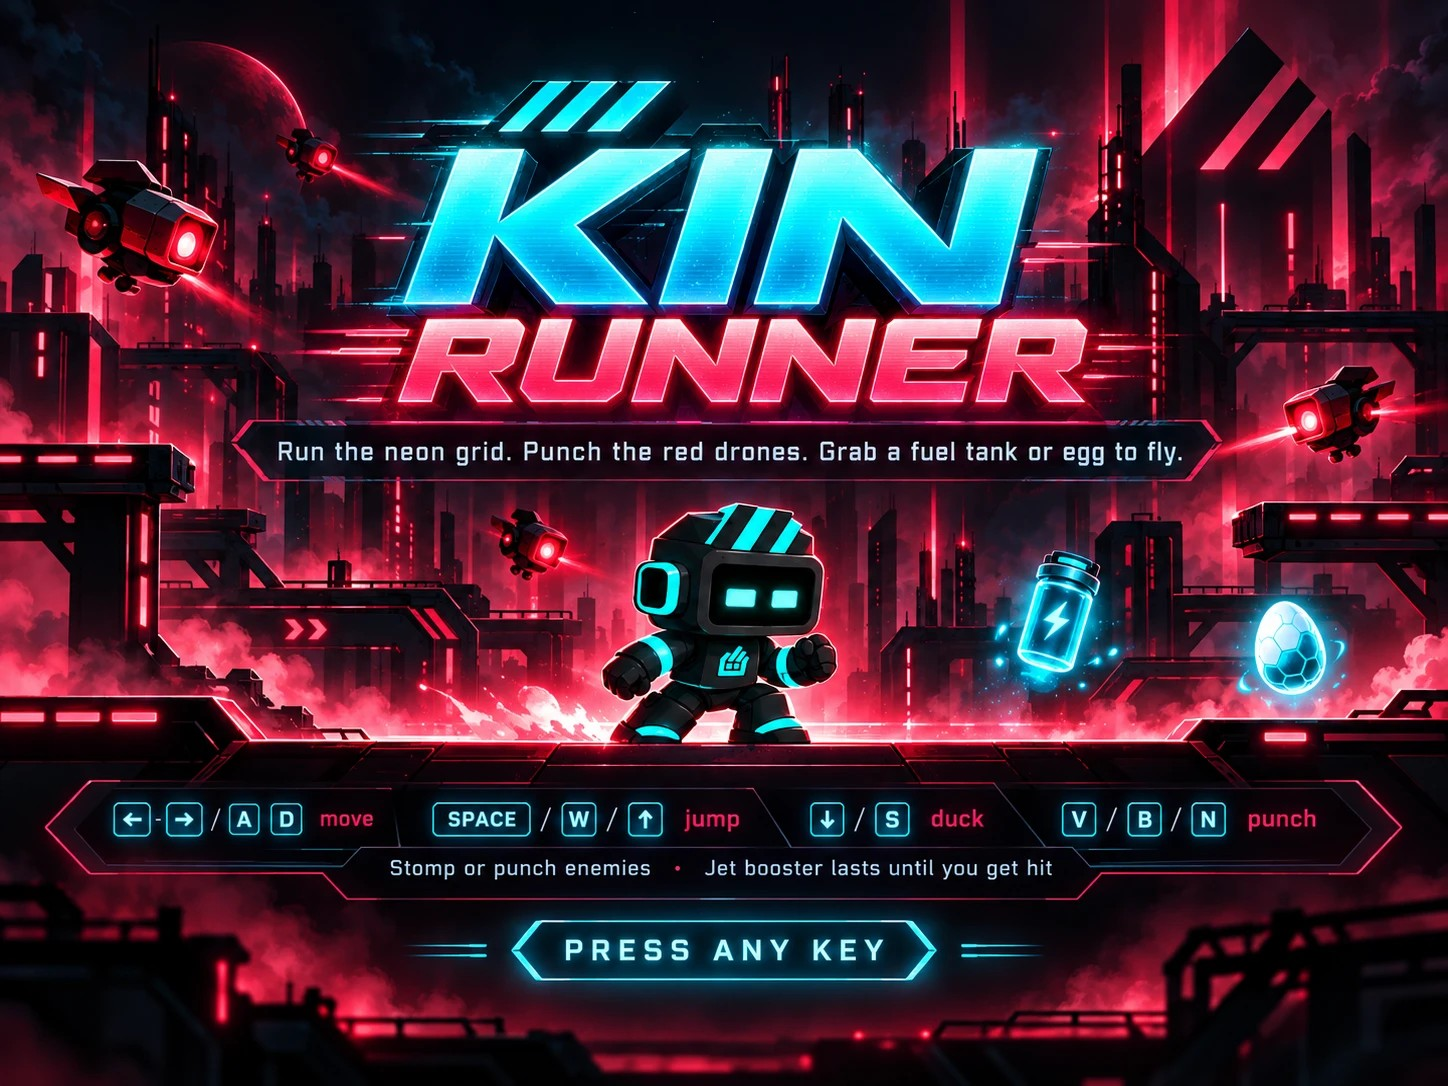
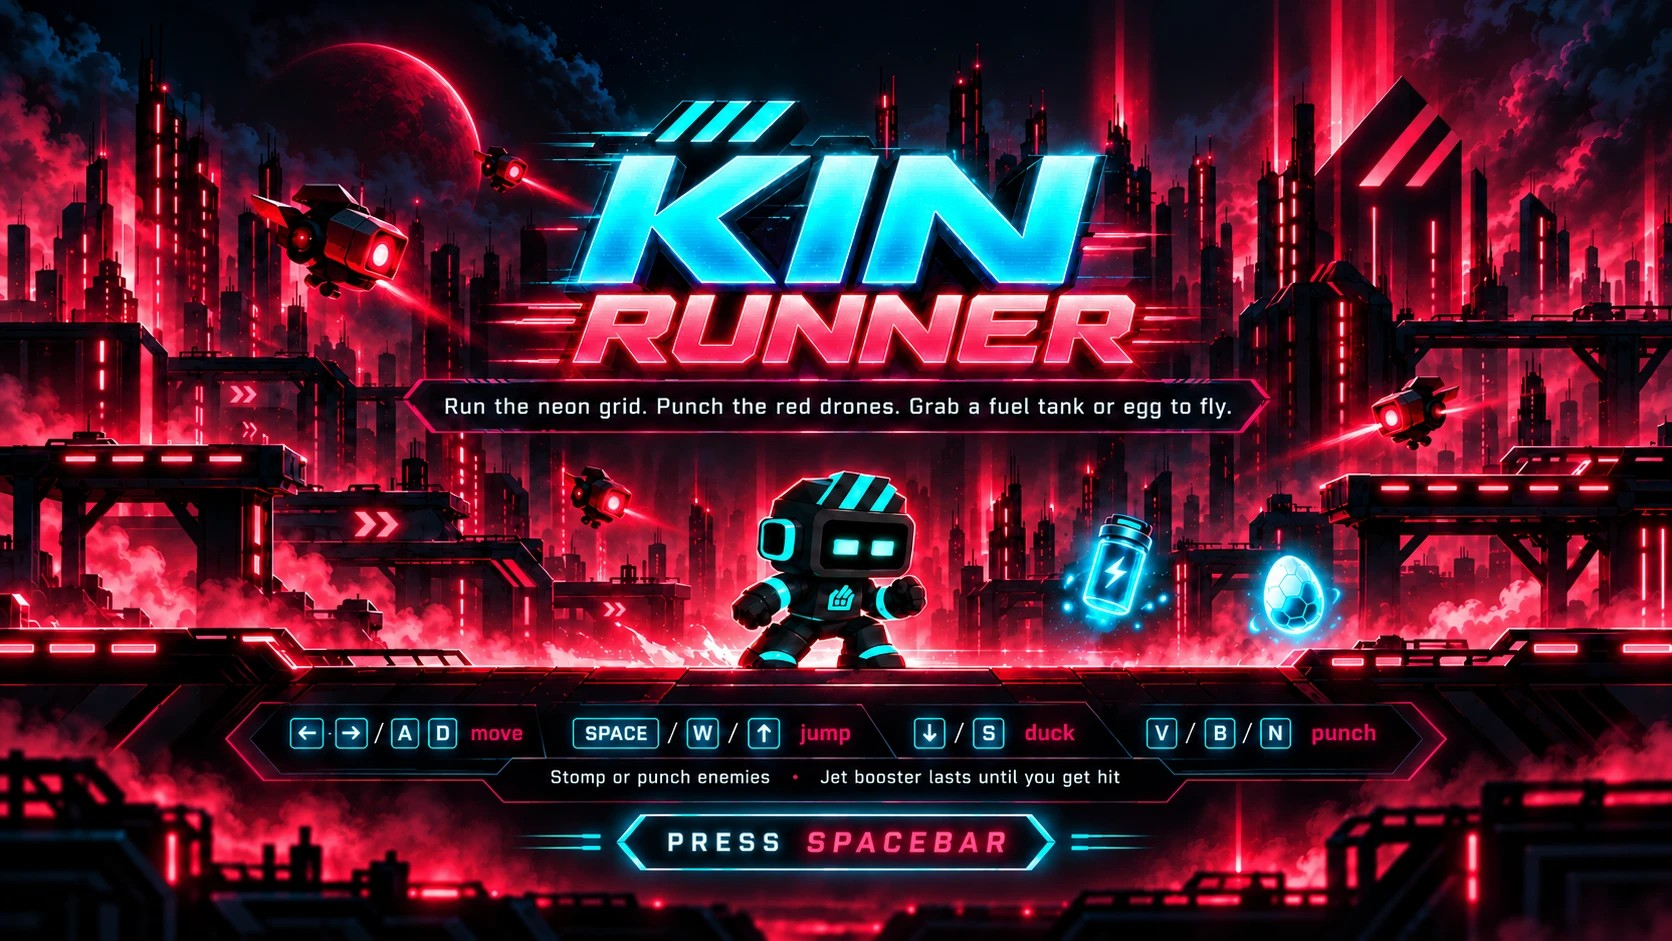
Widescreen full-bleed title poster, subtle title music, F for fullscreen

diff --git a/index.html b/index.html
@@ -154,7 +154,7 @@ const SFX = {
 };
 
 // ---------------------------------------------------------------- music ("NEON GRID" — procedural chiptune / synthwave)
-const MUSIC_VOL=.28, MUSIC_DUCK=.11;   // music sits under the sound effects
+const MUSIC_VOL=.28, MUSIC_DUCK=.11, MUSIC_TITLE=.07;   // music sits under the sound effects; barely there on the title
 const MUSIC={started:false,muted:false,step:0,next:0,bpm:144,timer:null,master:null,arpBus:null,padBus:null,leadBus:null};
 const mf=m=>440*Math.pow(2,(m-69)/12);
 // 8-bar progression in A minor: Am F C G | Am F Dm E   (root midi, chord intervals)
@@ -172,7 +172,7 @@ function musicStart(){
     if(AC.state==='suspended') AC.resume();
     if(MUSIC.started) return;
     const comp=AC.createDynamicsCompressor(); comp.threshold.value=-18; comp.ratio.value=4; comp.connect(AC.destination);
-    MUSIC.master=AC.createGain(); MUSIC.master.gain.value=MUSIC.muted?0:MUSIC_VOL; MUSIC.master.connect(comp);
+    MUSIC.master=AC.createGain(); MUSIC.master.gain.value=MUSIC.muted?0:(game.mode==='title'?MUSIC_TITLE:MUSIC_VOL); MUSIC.master.connect(comp);
     // arp bus with a dotted-eighth echo (the Tron shimmer)
     MUSIC.arpBus=AC.createGain(); MUSIC.arpBus.gain.value=.5; MUSIC.arpBus.connect(MUSIC.master);
     const dl=AC.createDelay(1); dl.delayTime.value=60/MUSIC.bpm*.75; const fb=AC.createGain(); fb.gain.value=.38; const dlp=AC.createBiquadFilter(); dlp.type='lowpass'; dlp.frequency.value=2600;
@@ -184,8 +184,9 @@ function musicStart(){
   }catch(e){}
 }
 function musicTick(){ const spb=60/MUSIC.bpm/4; while(MUSIC.next<AC.currentTime+.18){ scheduleStep(MUSIC.step,MUSIC.next,spb); MUSIC.next+=spb; MUSIC.step++; } }
-function musicDuck(on){ if(MUSIC.master&&!MUSIC.muted) MUSIC.master.gain.setTargetAtTime(on?MUSIC_DUCK:MUSIC_VOL,AC.currentTime,.3); }
-function musicToggle(){ MUSIC.muted=!MUSIC.muted; if(MUSIC.master) MUSIC.master.gain.setTargetAtTime(MUSIC.muted?0:MUSIC_VOL,AC.currentTime,.05); }
+function musicLevel(v){ if(MUSIC.master&&!MUSIC.muted) MUSIC.master.gain.setTargetAtTime(v,AC.currentTime,.3); }
+function musicDuck(on){ musicLevel(on?MUSIC_DUCK:MUSIC_VOL); }
+function musicToggle(){ MUSIC.muted=!MUSIC.muted; if(MUSIC.master) MUSIC.master.gain.setTargetAtTime(MUSIC.muted?0:(game.mode==='title'?MUSIC_TITLE:game.mode==='over'?MUSIC_DUCK:MUSIC_VOL),AC.currentTime,.05); }
 function osc(type,freq,t,dur,vol,dest,o={}){
   const v=AC.createOscillator(), g=AC.createGain(); v.type=type; v.frequency.setValueAtTime(freq,t);
   if(o.detune) v.detune.value=o.detune; if(o.slide) v.frequency.exponentialRampToValueAtTime(o.slide,t+dur);
@@ -625,35 +626,23 @@ function drawHUD(){
 }
 function drawTitle(){
   ctx.fillStyle='#07050a'; ctx.fillRect(0,0,W,H);
+  let s=1, x0=0, y0=0;
   if(TITLE.complete && TITLE.naturalWidth){
     const iw=TITLE.naturalWidth, ih=TITLE.naturalHeight;
-    // blurred, darkened bleed to fill the wide canvas
-    const cs=W/iw, ch=ih*cs; ctx.save(); ctx.filter='blur(16px) brightness(.45)'; ctx.drawImage(TITLE,-20,(H-ch)/2,W+40,ch); ctx.restore();
-    // poster fitted by height, centered
-    const s=H/ih, dw=iw*s, x0=(W-dw)/2; ctx.drawImage(TITLE,x0,0,dw,H);
-    // soft edges where the poster meets the bleed
-    for(const [x,d] of [[x0,1],[x0+dw,-1]]){ const g=ctx.createLinearGradient(x,0,x+d*28,0); g.addColorStop(0,'rgba(7,5,10,.9)'); g.addColorStop(1,'rgba(7,5,10,0)'); ctx.fillStyle=g; ctx.fillRect(Math.min(x,x+d*28),0,28,H); }
-    // replace the baked-in prompt text (frame stays): cover interior, draw PRESS SPACEBAR
-    { const ix=x0+518*s, iy=924*s, iw=411*s, ih=52*s; const g=ctx.createLinearGradient(0,iy,0,iy+ih); g.addColorStop(0,'rgb(4,34,45)'); g.addColorStop(.5,'rgb(2,22,33)'); g.addColorStop(1,'rgb(10,46,68)');
-      ctx.fillStyle=g; ctx.fillRect(ix,iy,iw,ih);
-      const txt='PRESS SPACEBAR', fs=Math.round(30*s*1.3), sp=3.2*s*1.3; ctx.font=`900 ${fs}px system-ui`; ctx.textBaseline='middle'; ctx.textAlign='left';
-      let tw=0; for(const ch of txt) tw+=ctx.measureText(ch).width+sp; tw-=sp;
-      let tx=x0+723.5*s-tw/2; const ty=950*s+1;
-      ctx.save(); ctx.fillStyle='#bff6ff'; ctx.shadowColor='#35e9ff'; ctx.shadowBlur=12;
-      for(const ch of txt){ ctx.fillText(ch,tx,ty); tx+=ctx.measureText(ch).width+sp; }
-      ctx.restore(); }
-    // pulsing glow on the prompt
-    const pulse=.5+Math.sin(game.time*3.2)*.5, px=x0+520*s, py=915*s, pw=410*s, ph=70*s;
-    ctx.save(); ctx.globalCompositeOperation='lighter'; ctx.globalAlpha=.35*pulse; ctx.shadowColor='#35e9ff'; ctx.shadowBlur=30; ctx.fillStyle='#35e9ff'; rr(px,py,pw,ph,10); ctx.fill(); ctx.restore();
-    // best score badge
-    if(game.best){ ctx.textAlign='left'; ctx.textBaseline='top'; ctx.font='bold 14px system-ui'; ctx.fillStyle='#35e9ff'; ctx.shadowColor='#35e9ff'; ctx.shadowBlur=10; ctx.fillText('BEST '+game.best, 16, 14); ctx.shadowBlur=0; }
-    ctx.textAlign='right'; ctx.font='12px system-ui'; ctx.fillStyle='rgba(223,233,239,.7)'; ctx.fillText('M  music', W-16, 14);
+    s=Math.max(W/iw,H/ih); const dw=iw*s, dh=ih*s; x0=(W-dw)/2; y0=(H-dh)/2;   // cover: fills the whole canvas
+    ctx.drawImage(TITLE,x0,y0,dw,dh);
+    // pulsing glow on the PRESS SPACEBAR prompt
+    const pulse=.5+Math.sin(game.time*3.2)*.5, px=x0+622*s, py=y0+812*s, pw=428*s, ph=60*s;
+    ctx.save(); ctx.globalCompositeOperation='lighter'; ctx.globalAlpha=.3*pulse; ctx.shadowColor='#35e9ff'; ctx.shadowBlur=30; ctx.fillStyle='#35e9ff'; rr(px,py,pw,ph,10); ctx.fill(); ctx.restore();
   }
+  ctx.textBaseline='top'; ctx.font='bold 14px system-ui';
+  if(game.best){ ctx.textAlign='left'; ctx.fillStyle='#35e9ff'; ctx.shadowColor='#35e9ff'; ctx.shadowBlur=10; ctx.fillText('BEST '+game.best, 16, 14); ctx.shadowBlur=0; }
+  ctx.textAlign='right'; ctx.font='12px system-ui'; ctx.fillStyle='rgba(223,233,239,.75)'; ctx.fillText('M  music    F  fullscreen', W-16, 14);
   // powered by Kinotic
-  const lw=132, lh=LOGO.naturalWidth?lw*LOGO.naturalHeight/LOGO.naturalWidth:lw*200/1128, label='POWERED BY';
+  const lw=120, lh=LOGO.naturalWidth?lw*LOGO.naturalHeight/LOGO.naturalWidth:lw*200/1128, label='POWERED BY';
   ctx.font='600 11px system-ui'; ctx.textAlign='left'; ctx.textBaseline='middle';
-  const tw=ctx.measureText(label).width, gap=12, total=tw+gap+lw, bx=(W-total)/2, by=H-22;
-  ctx.fillStyle='rgba(7,5,10,.72)'; rr(bx-18,by-16,total+36,32,16); ctx.fill();
+  const tw=ctx.measureText(label).width, gap=12, total=tw+gap+lw, bx=(W-total)/2, by=H-20;
+  ctx.fillStyle='rgba(7,5,10,.7)'; rr(bx-18,by-15,total+36,30,15); ctx.fill();
   ctx.fillStyle='rgba(223,233,239,.85)'; ctx.fillText(label,bx,by+1);
   if(LOGO.complete && LOGO.naturalWidth) ctx.drawImage(LOGO,bx+tw+gap,by-lh/2,lw,lh);
 }
@@ -665,6 +654,12 @@ function frame(now){
   update(dt); draw(); requestAnimationFrame(frame);
 }
 cv.addEventListener('pointerdown', ()=>{ if(game.mode!=='play') startGame(); });
+// title music: start quietly now if the browser allows, otherwise on the first key or tap
+function unlockAudio(){ musicStart(); if(AC&&AC.state==='suspended') AC.resume(); }
+musicStart();
+addEventListener('keydown', unlockAudio, {once:false}); addEventListener('pointerdown', unlockAudio);
+// F toggles browser fullscreen
+addEventListener('keydown', e=>{ if(e.code==='KeyF'&&!e.repeat){ if(document.fullscreenElement) document.exitFullscreen(); else document.documentElement.requestFullscreen&&document.documentElement.requestFullscreen(); } });
 requestAnimationFrame(frame);
 </script>
 </body>

diff --git a/README.md b/README.md
@@ -24,6 +24,7 @@ Then open http://localhost:8765. Any other static file server works too.
 | Start | Space, Enter, or tap |
 | Retry | Space, Enter, or a shoot key |
 | Toggle music | M |
+| Fullscreen | F |
 
 On touch devices, on-screen buttons appear automatically.
 
